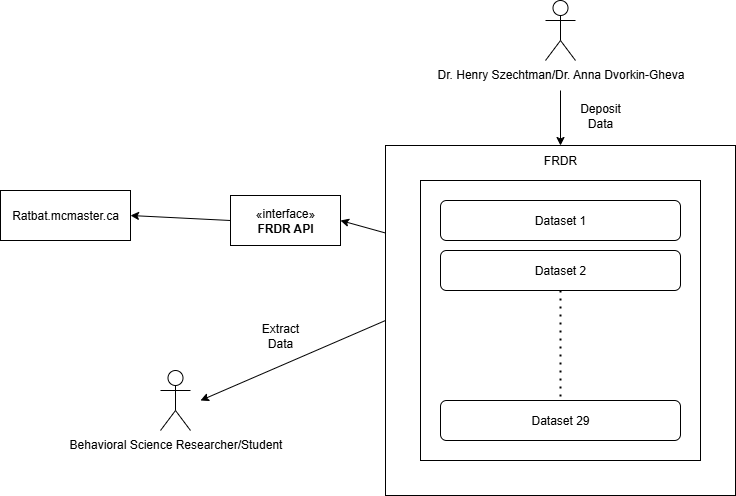
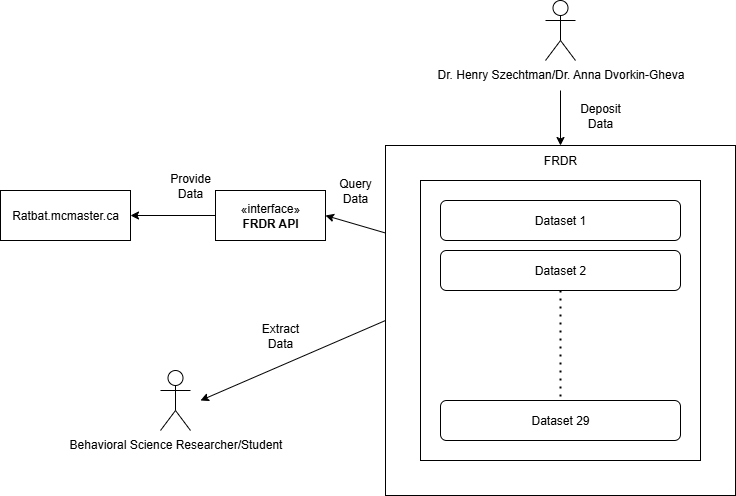
SRS revisions

Changed region(s): [[0.1875, 0.3327, 0.5, 0.5141]]

diff --git a/docs/SRS-Volere/SRS.tex b/docs/SRS-Volere/SRS.tex
@@ -613,7 +613,9 @@ users are able to access all of the available data, it is very fragmented, nearl
 effectively and hard to leverage for any specific research purposes. \newline\newline
 
 Additionally, the project from last year, \href{https://ratbat.mcmaster.ca}{RatBat}, is also pulling from the \gls{frdr}
-dataset using its provided API. Please see below of a graphical layout of the current situation.}
+dataset using its provided API. Please see below of a graphical layout of the current situation.\newline\newline
+
+\indent Note that each arrow simply indicates an exchange of information from the system to some cooperating component or vice versa.}
 
 \begin{figure}[H]
     \centering
@@ -685,7 +687,10 @@ The work is divided into the following components to ensure clarity, manageabili
 
 \par{ Shown below is the Business Use Case diagram for our system. The
 events that can be accessed by an actor are the business use cases and rest of the
-diagram objects represent business events.\newline\newline}
+diagram objects represent business events.\newline\newline
+\indent Note that each arrow represents an "includes" relationship which is a top-down approach
+to the use case with the most high level event (the use case) at the beginning and every subsequent step
+being more granular. i.e. every subsequent step of the business event must be performed for the initial one to be completed. }
 
 \begin{figure}[H]
     \centering
@@ -693,6 +698,25 @@ diagram objects represent business events.\newline\newline}
     \caption{Use Case Diagram}
     \label{fig:myimage}
 \end{figure}
+
+\begin{table}[H]
+\begin{tabular}{|m{2.5cm}|m{2cm}|m{3.0cm}|m{3.0cm}|m{2.5cm}|m{2.5cm}|}
+\hline
+\textbf{Use Case} & \textbf{Actors} & \textbf{Description} & \textbf{Outcome} & \textbf{Functional Requirement}\\ 
+\hline
+BUC1: Get Result Set & Researcher & Query dataset & Filtered dataset returned & FUNC.R.1, FUNC.R.2, FUNC.R.3\\
+\hline
+BUC2: Download Data & Researcher & Download trials & Files downloaded  & FUNC.R.6 \\
+\hline
+BUC3: Get Data Visualizations & Researcher & Generate visualizations based on a requested data set & Graphical visualizations related to relevant dataset & FUNC.R.5\\
+\hline
+BUC4: Get Behavioural Metrics & Researcher & Generate statistical metrics of rat behaviour & Statistical breakdown of behavioural metrics in relevant dataset & FUNC.R.4\\
+\hline
+BUC5: Deposit Data & Dr. Henry Szechtman/Dr. Anna Dvorkin & Deposit New Data into FRDR & New data becomes available & Handled By Methods outside of System Scope \\
+\hline
+\end{tabular}
+\caption{Business Use Case Table}
+\end{table}
 
 
 \section{Business Data Model and Data Dictionary}
@@ -832,7 +856,7 @@ UC1: Search \& Filter Data & Researcher & Query dataset & User logged in; datase
 \hline
 UC2: Download Data & Researcher & Download trials & Dataset query completed & Files downloaded \\
 \hline
-UC4: Deployment \& Access & DevOps Engineer & Deploy platform online or locally & Backend/frontend configured & Platform accessible \\
+UC3: Deployment \& Access & DevOps Engineer & Deploy platform online or locally & Backend/frontend configured & Platform accessible \\
 \hline
 \end{tabular}
 \caption{Product Use Case Table}
@@ -870,6 +894,42 @@ UC4: Deployment \& Access & DevOps Engineer & Deploy platform online or locally 
 \textbf{FUNC.R.7:} & The program shall be easily accessible globally. & 3 & Users from multiple regions around the world can access the system without performance degradation; average page load under 4 seconds. & 1/10/2025 \\
 \end{longtblr}
 
+\begin{longtblr}[
+  caption = {Functional Requirements Rationale},
+  label = {TblFuncReqsRationale},
+]{
+  colspec = {|Q[c,3cm] | Q[c,10cm] | Q[c,3cm]|}, 
+  rowhead = 1,   
+  row{1} = {font=\bfseries},       
+  hlines,               
+}
+\textbf{Functional Requirement} & \textbf{Rationale} & \textbf{Priority} \\
+
+\textbf{FUNC.R.1} & This is the foundation of the system. The most basic and important goal of our users is to be able to access this data in a unified and holistic way to
+            enable researchers to repurpose this vast amount of data in a way that is useful for their experiments. & Very High \\
+
+\textbf{FUNC.R.2} & This is an optimization of FUNC.R.1, simply providing improved accessibility for users who are less technical or may not be comfortable with
+            a strict filter approach. This requirement exists to enable users to receive relevant data based on ideas in natural language & High \\
+
+\textbf{FUNC.R.3} & This is an additional optimization of FUNC.R.1 which provides further accessibility improvements for users who may not know exactly what
+            they are looking for. Providing datasets that may be useful allows a user to browse for something that may be relevant to them
+            and gives users a good starting point. & High \\
+
+\textbf{FUNC.R.4} & This functional requirement provides a level of analysis on top of providing relevant datasets. Users will have a need
+            for insights into the data so that they can draw conclusions from the data. Specifically, behavioural metrics based
+            on certain attributes of \gls{rat-behavioral-trials} will assist researchers in drawing useful conclusions from this dataset.  & High \\
+
+\textbf{FUNC.R.5} & This functional requirement also provides a level of analysis for the datasets. While it may not be as informative as the behavioural
+            categorizations, providing graphical visualizations of important trends in the datasets are very useful in generating any sort 
+            of useful conclusions in a scientific experiment & Medium \\
+
+\textbf{FUNC.R.6} & It is extremely likely that the user will want or need the requested data to be available on their local machine so that they can
+            view, sort, manipulate or some other action. Giving users direct access to the data in this way will increase the things they
+            can do with it thus improving the usefulness of our system. & High \\
+
+\textbf{FUNC.R.7} & The motivation for the creation of this system is to provide better accessibility for this useful dataset. It follows that effort
+            should be made to ensure that the system is available to as many people as possible.  & Medium \\
+\end{longtblr}
 
 
 \section{Look and Feel Requirements}
